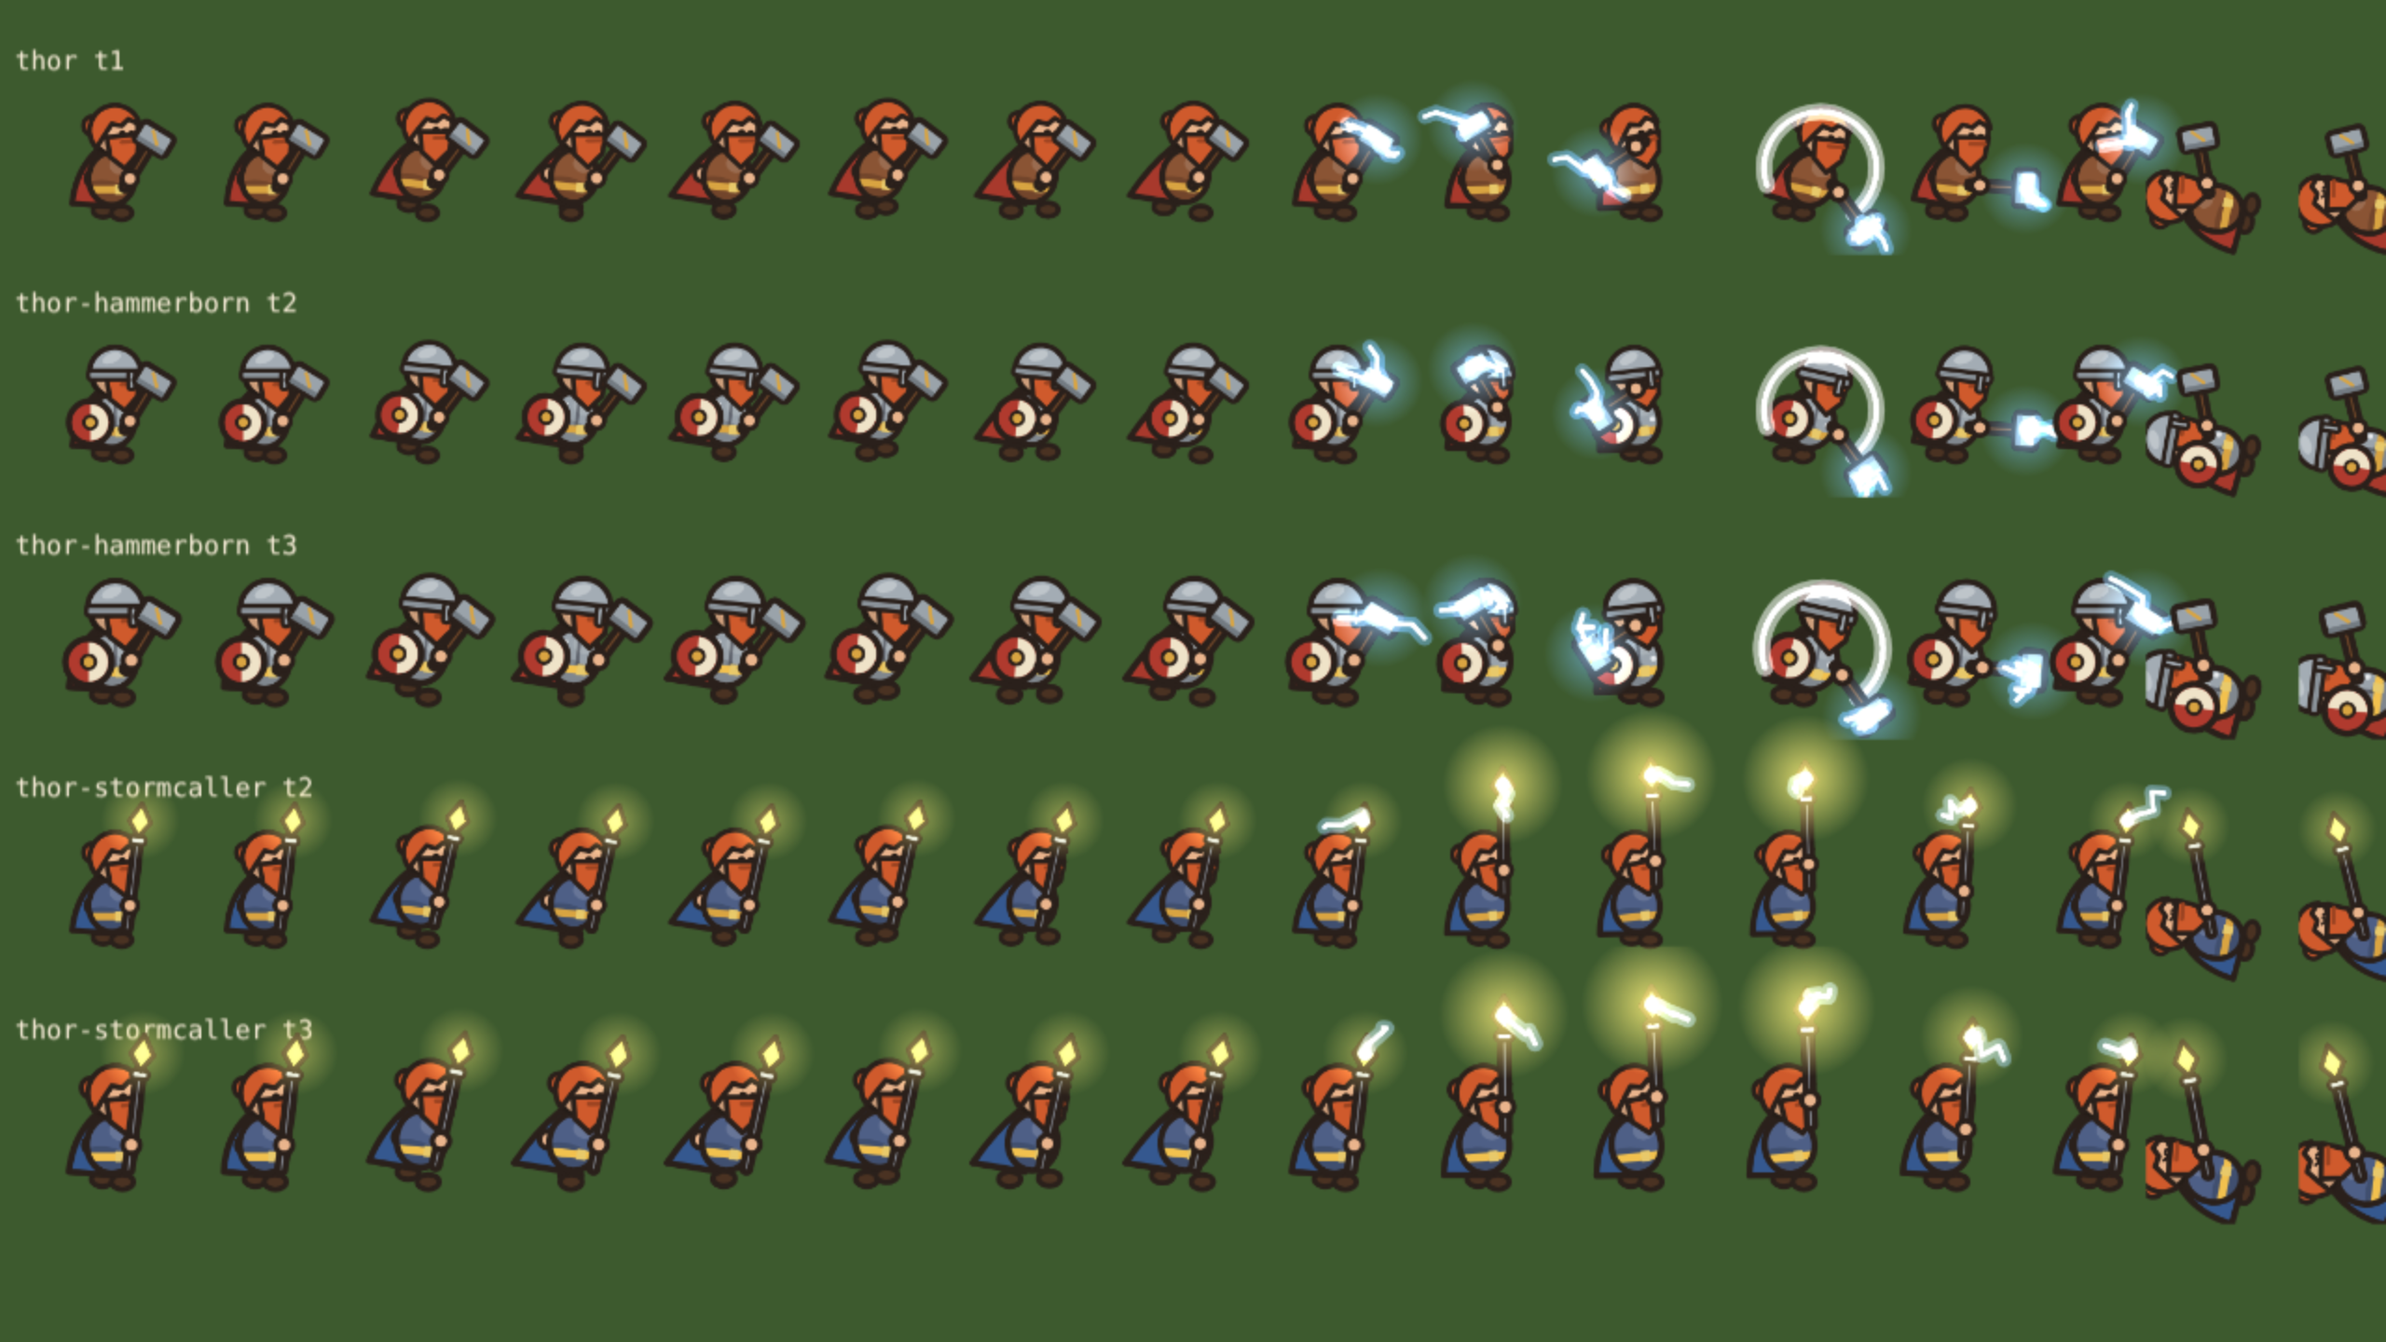
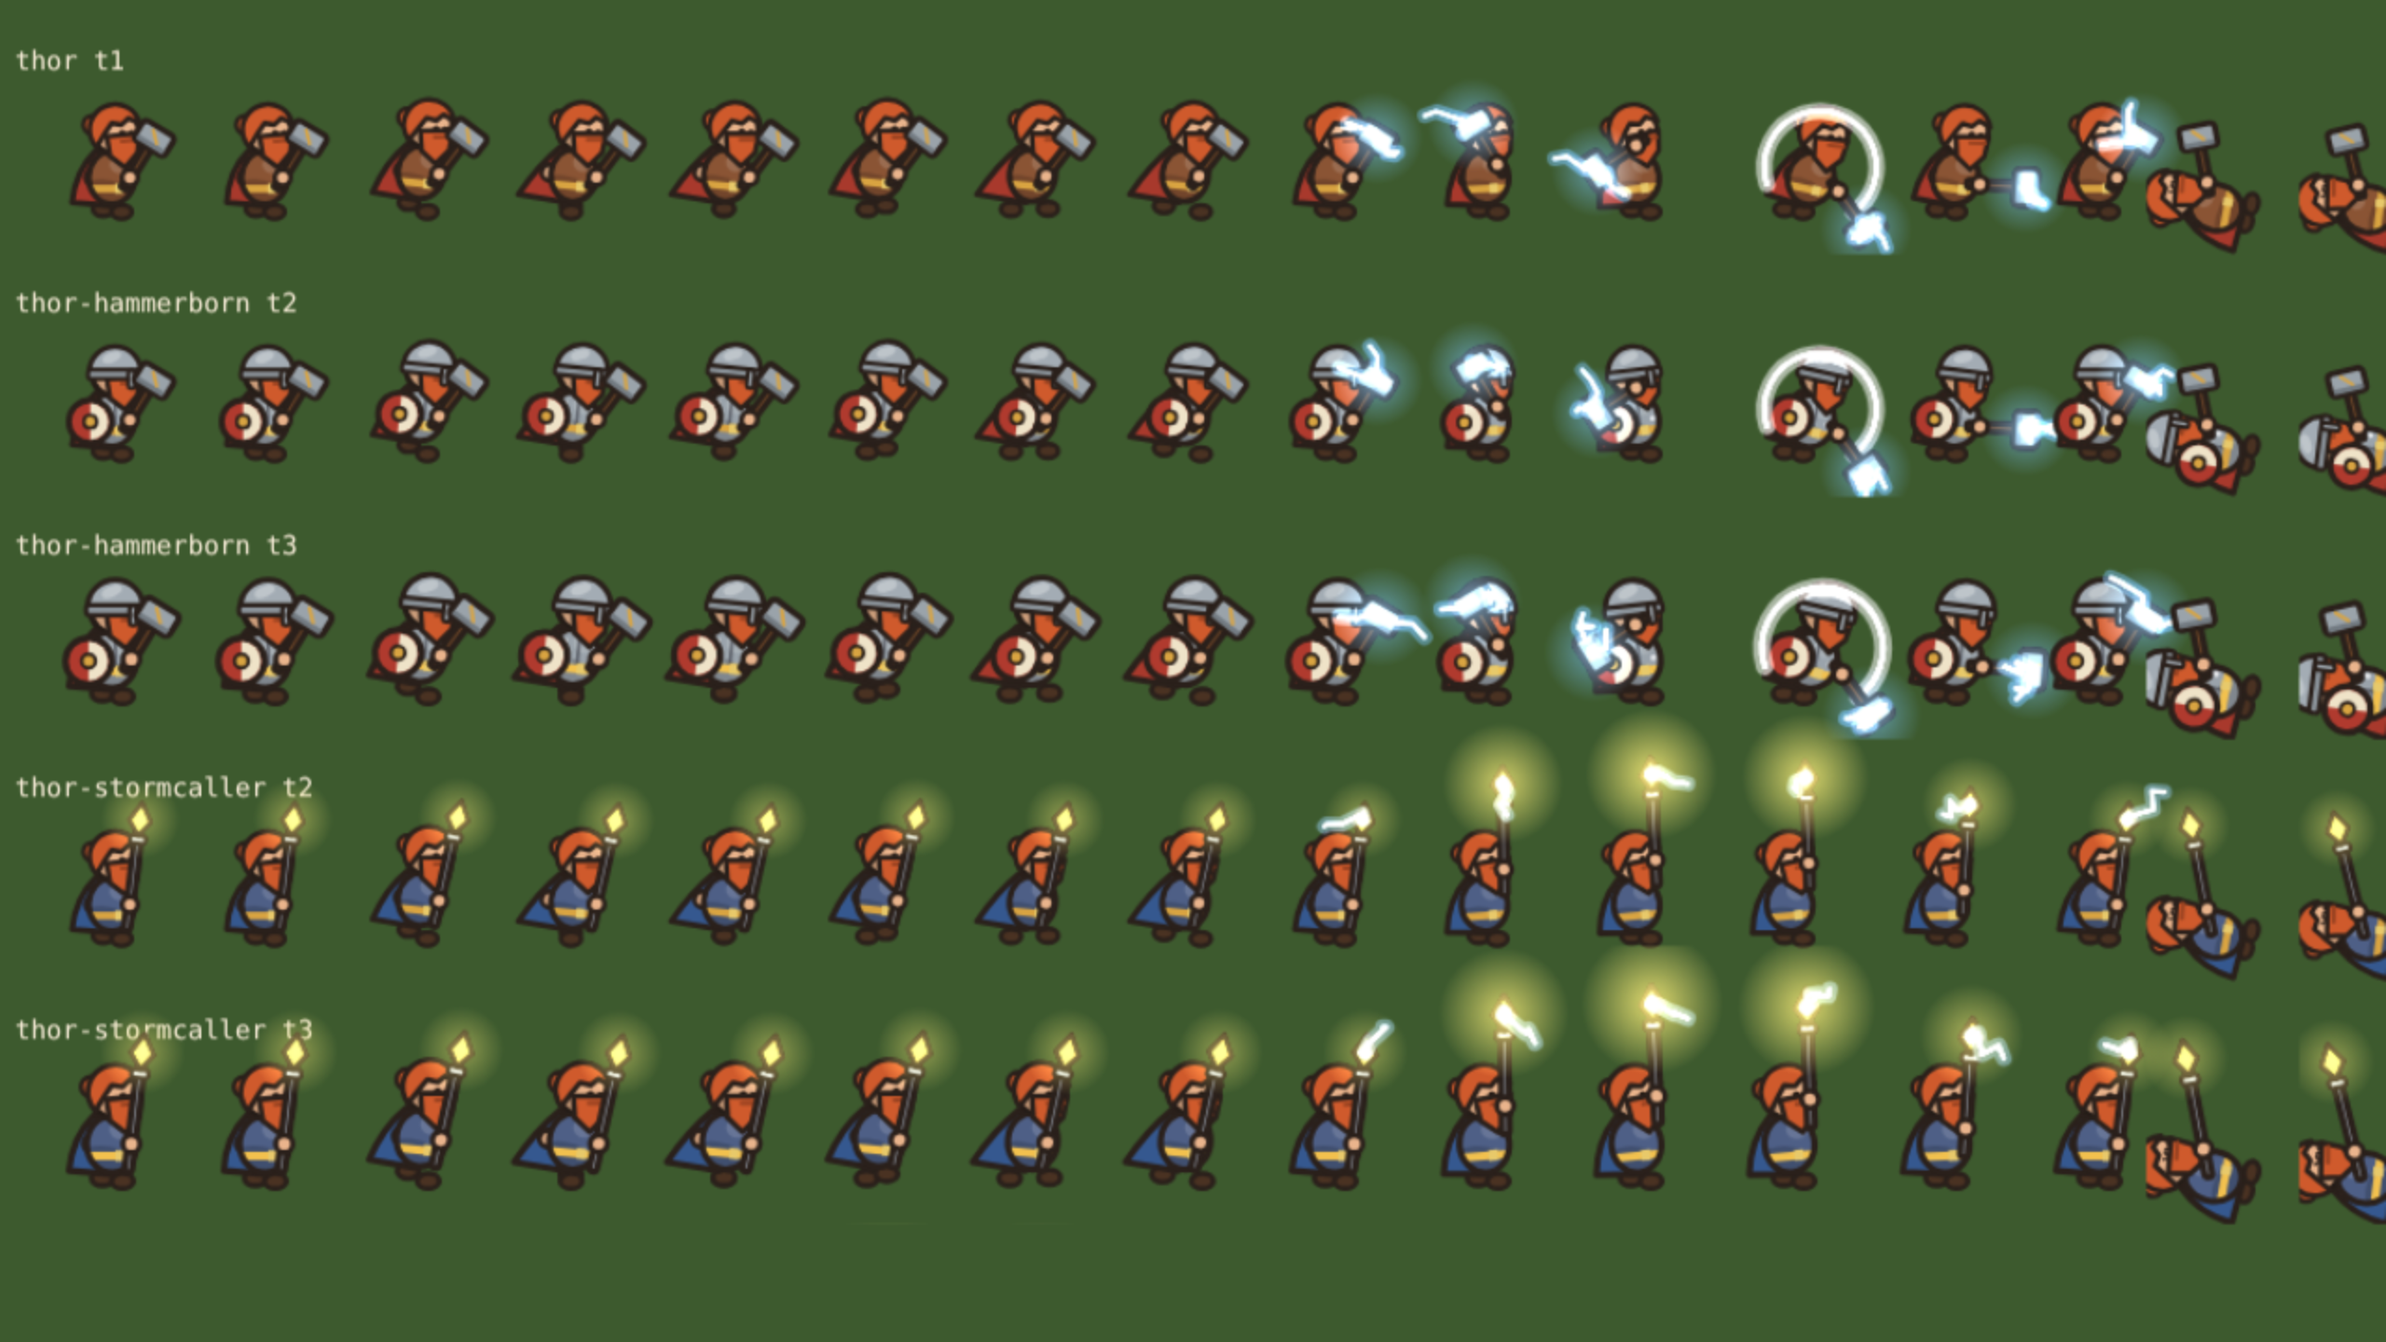
fix(scene): parts looks bake into one atlas each at a capped scale, idle looks are released, owner header (review of #193)
Claude-Session: https://claude.ai/code/session_01EDKMoTWRabZMeHFkhrUDvd

diff --git a/src/ui/parts/bake.ts b/src/ui/parts/bake.ts
@@ -1,31 +1,37 @@
-// Bakes the frames of a part-based look into canvas textures, once per look, on first sight.
+// Bakes the frames of a part-based look into ONE canvas atlas per look, once, on first sight.
 // Drawing a hero from parts every frame would cost far too much on a phone; a baked frame is one
-// image draw. Frames are baked at the screen's pixel density so they stay crisp.
+// image draw. Memory is kept small on purpose (a phone has a hard canvas budget): a modest bake
+// scale, one canvas per look (not one per frame), and looks nobody uses any more are released.
 import Phaser from 'phaser';
 import type { HeroPartsRow } from '../../data/heroParts';
 import { withCtx } from './gfx';
 import { drawHero } from './heroDraw';
-import { FRAME_COUNT, FRAME_H, FRAME_W, ORIGIN, frameState, type PoseName } from './frames';
+import {
+  ATLAS_COLS as COLS,
+  FRAME_COUNT,
+  FRAME_H,
+  FRAME_W,
+  ORIGIN,
+  frameState,
+  pxPerUnit,
+  type PoseName,
+} from './frames';
 
 export interface BakedSet {
   id: string;
-  keys: Record<PoseName, string[]>;
+  // The atlas texture key and, per pose, the frame names inside it.
+  atlas: string;
+  frames: Record<PoseName, string[]>;
   // Where the feet are in a frame, as fractions of the frame (the image origin).
   originX: number;
   originY: number;
-  // World units per baked pixel is 1 / pxPerUnit of the frame's drawing units.
+  // Baked pixels per drawing unit.
   pxPerUnit: number;
+  lastUsed: number;
 }
 
 const POSES: PoseName[] = ['idle', 'walk', 'attack', 'ko'];
 const sets = new Map<string, BakedSet>();
-
-// Bake pixels per drawing unit: a hero draws about 4.5 world units per drawing unit, so this
-// keeps a baked pixel at or below a screen pixel for a phone at 2.5x density.
-export function pxPerUnit(dpr: number = globalThis.devicePixelRatio || 1): number {
-  const perWorld = Math.min(2.5, Math.max(1.5, dpr));
-  return Math.round(perWorld * 1.6 * 10) / 10;
-}
 
 function seedOf(id: string, pose: string, i: number): number {
   let h = 2166136261;
@@ -33,49 +39,76 @@ function seedOf(id: string, pose: string, i: number): number {
   return h | 0;
 }
 
-export function hasSet(scene: Phaser.Scene, id: string): boolean {
-  const s = sets.get(id);
-  return !!s && scene.textures.exists(s.keys.idle[0]);
-}
-
-export function getSet(id: string): BakedSet | undefined {
-  return sets.get(id);
-}
-
 // Returns the baked set for a look, baking it now if it is not there yet.
 export function ensureHeroSet(scene: Phaser.Scene, id: string, row: HeroPartsRow): BakedSet {
   const have = sets.get(id);
-  if (have && scene.textures.exists(have.keys.idle[0])) return have;
+  if (have && scene.textures.exists(have.atlas)) {
+    have.lastUsed = scene.time.now;
+    return have;
+  }
   const k = pxPerUnit();
-  const w = Math.ceil(FRAME_W * k);
-  const h = Math.ceil(FRAME_H * k);
-  const keys = { idle: [], walk: [], attack: [], ko: [] } as Record<PoseName, string[]>;
+  const fw = Math.ceil(FRAME_W * k);
+  const fh = Math.ceil(FRAME_H * k);
+  const total = POSES.reduce((n, p) => n + FRAME_COUNT[p], 0);
+  const rows = Math.ceil(total / COLS);
+  const atlas = `parts_${id}`;
+  if (scene.textures.exists(atlas)) scene.textures.remove(atlas);
+  const tex = scene.textures.createCanvas(atlas, fw * COLS, fh * rows);
+  const frames = { idle: [], walk: [], attack: [], ko: [] } as Record<PoseName, string[]>;
+  const set: BakedSet = {
+    id,
+    atlas,
+    frames,
+    originX: ORIGIN.x / FRAME_W,
+    originY: ORIGIN.y / FRAME_H,
+    pxPerUnit: k,
+    lastUsed: scene.time.now,
+  };
+  if (!tex) return set; // no canvas to draw on: the caller's frame names stay empty
+  const c = tex.getContext();
+  let n = 0;
   for (const pose of POSES) {
-    for (let i = 0; i < FRAME_COUNT[pose]; i++) {
-      const key = `parts_${id}_${pose}_${i}`;
-      keys[pose].push(key);
-      if (scene.textures.exists(key)) continue;
-      const tex = scene.textures.createCanvas(key, w, h);
-      if (!tex) continue;
-      const c = tex.getContext();
-      c.clearRect(0, 0, w, h);
+    for (let i = 0; i < FRAME_COUNT[pose]; i++, n++) {
+      const x = (n % COLS) * fw;
+      const y = Math.floor(n / COLS) * fh;
+      const name = `${pose}${i}`;
+      frames[pose].push(name);
+      tex.add(name, 0, x, y, fw, fh);
       c.save();
+      c.beginPath();
+      c.rect(x, y, fw, fh);
+      c.clip();
+      c.translate(x, y);
       c.scale(k, k);
       c.translate(ORIGIN.x, ORIGIN.y);
       const st = frameState(pose, i);
       withCtx(c, st.time, seedOf(id, pose, i), () => drawHero(st.pose, row));
       c.restore();
-      tex.refresh();
-      tex.setFilter(Phaser.Textures.FilterMode.LINEAR);
     }
   }
-  const set: BakedSet = {
-    id,
-    keys,
-    originX: ORIGIN.x / FRAME_W,
-    originY: ORIGIN.y / FRAME_H,
-    pxPerUnit: k,
-  };
+  tex.refresh();
+  tex.setFilter(Phaser.Textures.FilterMode.LINEAR);
   sets.set(id, set);
   return set;
+}
+
+// Looks nobody has used for `idleMs` (and that `inUse` does not name) are released. Called every
+// few seconds, so a run that moves on to higher tiers does not keep every old look.
+export function sweepSets(scene: Phaser.Scene, inUse: ReadonlySet<string>, idleMs = 60_000): void {
+  for (const [id, set] of sets) {
+    if (inUse.has(id)) {
+      set.lastUsed = scene.time.now;
+      continue;
+    }
+    if (scene.time.now - set.lastUsed < idleMs) continue;
+    if (scene.textures.exists(set.atlas)) scene.textures.remove(set.atlas);
+    sets.delete(id);
+  }
+}
+
+// Releases every baked look (the run ended or restarted).
+export function releaseSets(scene: Phaser.Scene): void {
+  for (const set of sets.values())
+    if (scene.textures.exists(set.atlas)) scene.textures.remove(set.atlas);
+  sets.clear();
 }

diff --git a/src/ui/unitViews.ts b/src/ui/unitViews.ts
@@ -3,7 +3,7 @@ import { GRAYBOX } from '../data/graybox';
 import { lookOf, type UnitLook } from '../data/looks';
 import { bossState } from './bossLook';
 import { heroPartsId, heroPartsRow } from '../data/heroParts';
-import { ensureHeroSet, type BakedSet } from './parts/bake';
+import { ensureHeroSet, sweepSets, type BakedSet } from './parts/bake';
 import { attackFrame, idleFrame, koFrame, walkFrame, type PoseName } from './parts/frames';
 import type { RiderId, SimEvent, UnitState, Vec2 } from '../sim/api';
 import { ASSETS_KEY, type ManifestAsset } from './assets';
@@ -263,20 +263,24 @@ export class UnitView {
     const id = heroPartsId(u.god, u.path, u.tier);
     if (id === this.partsId) return true;
     const set = ensureHeroSet(this.scene, id, row);
-    const first = set.keys.idle[0];
+    const first = set.frames.idle[0];
     this.partsSet = set;
     this.partsId = id;
     this.artId = '';
     if (!this.sprite) {
-      this.sprite = this.scene.add.image(0, 0, first);
-      this.flash = this.scene.add.image(0, 0, first).setVisible(false);
+      this.sprite = this.scene.add.image(0, 0, set.atlas, first);
+      this.flash = this.scene.add.image(0, 0, set.atlas, first).setVisible(false);
       this.body.addAt(this.sprite, 0);
       this.body.add(this.flash);
     }
     // World units per baked pixel: the hero's height over its drawing height, over the bake scale.
     const scale = (UNIT_HEIGHT * this.look.scale) / PARTS_HERO_H / set.pxPerUnit;
     for (const img of [this.sprite, this.flash]) {
-      img?.setTexture(first).setOrigin(set.originX, set.originY).setScale(scale).clearTint();
+      img
+        ?.setTexture(set.atlas, first)
+        .setOrigin(set.originX, set.originY)
+        .setScale(scale)
+        .clearTint();
     }
     this.ax = set.originX;
     this.ay = set.originY;
@@ -292,9 +296,26 @@ export class UnitView {
     if (this.partsSet) {
       this.partsSet = null;
       this.partsId = '';
-      this.artId = ''; // applyArt sets the picture (or the placeholder) back
+      // Drop the parts sprites: applyArt makes a fresh one (with its tier colour) for a picture,
+      // or the placeholder shape comes back.
+      this.sprite?.destroy();
+      this.flash?.destroy();
+      this.sprite = this.flash = null;
+      this.artId = '';
+      this.row = undefined;
+      this.ax = 0.5;
+      this.ay = 1;
+      this.w = PLACEHOLDER.w * this.look.scale;
+      this.h = PLACEHOLDER.h * this.look.scale;
+      this.capsule.setVisible(true);
+      this.nose.setVisible(true);
     }
     return false;
+  }
+
+  // The parts look this hero is drawn with ('' for a picture or the placeholder).
+  get partsLookId(): string {
+    return this.partsId;
   }
 
   // Swaps in the picture for this unit when the manifest has it; else the placeholder stays.
@@ -619,10 +640,10 @@ export class UnitView {
     }
     if (this.partsSet) {
       // The baked frame carries the pose (stride, swing, fall): the body stays upright.
-      const key = this.partsSet.keys[frame.pose][frame.i];
-      if (key && this.sprite?.texture.key !== key) {
-        this.sprite?.setTexture(key);
-        this.flash?.setTexture(key);
+      const name = this.partsSet.frames[frame.pose][frame.i];
+      if (name && this.sprite?.frame.name !== name) {
+        this.sprite?.setTexture(this.partsSet.atlas, name);
+        this.flash?.setTexture(this.partsSet.atlas, name);
       }
       pose = NO_POSE;
     }
@@ -971,6 +992,13 @@ export class UnitViews {
       }
     }
     this.flushQueued();
+    if (this.scene.time.now > this.sweepAt) {
+      this.sweepAt = this.scene.time.now + 5000;
+      const inUse = new Set<string>();
+      for (const v of [...this.views.values(), ...this.dying.values()])
+        if (v.partsLookId) inUse.add(v.partsLookId);
+      sweepSets(this.scene, inUse);
+    }
     this.fx.update(dtS);
   }
 
@@ -979,6 +1007,7 @@ export class UnitViews {
   // Heroes only, rationed by SpeechLimit (one bark in town per few seconds, one per hero per 30 s).
   // A high priority bark that meets the global gap waits up to HIGH_WAIT_MS for it, then drops
   // (barks.md section 2 rule 3). Mid and low barks drop at once.
+  private sweepAt = 0;
   private queued: { e: Extract<SimEvent, { kind: SpeechKind }>; until: number } | null = null;
 
   private onSpeech(e: Extract<SimEvent, { kind: SpeechKind }>): void {

diff --git a/src/ui/parts/frames.test.ts b/src/ui/parts/frames.test.ts
@@ -1,5 +1,14 @@
 import { describe, expect, it } from 'vitest';
-import { FRAME_COUNT, attackFrame, frameState, idleFrame, koFrame, walkFrame } from './frames';
+import {
+  FRAME_COUNT,
+  attackFrame,
+  frameState,
+  idleFrame,
+  koFrame,
+  lookBytes,
+  pxPerUnit,
+  walkFrame,
+} from './frames';
 
 describe('frame choice', () => {
   it('walks through every walk frame once per stride and wraps', () => {
@@ -30,5 +39,15 @@ describe('frame choice', () => {
     expect(frameState('attack', FRAME_COUNT.attack - 1).pose.atkT).toBe(1);
     expect(frameState('ko', FRAME_COUNT.ko - 1).pose.ko).toBe(true);
     expect(frameState('idle', 1).pose.atkT).toBe(-1);
+  });
+});
+
+describe('bake memory', () => {
+  it('a look stays near 2 MB on the GPU at the densest screen', () => {
+    expect(pxPerUnit(1)).toBe(1.2);
+    expect(pxPerUnit(3)).toBe(1.8);
+    expect(lookBytes(pxPerUnit(3))).toBeLessThan(2.5 * 1024 * 1024);
+    // 24 looks (a full run's heroes) with their canvases stay well under 64 MB at dpr 2.
+    expect(24 * 2 * lookBytes(pxPerUnit(2))).toBeLessThan(64 * 1024 * 1024);
   });
 });

diff --git a/src/ui/parts/frames.ts b/src/ui/parts/frames.ts
@@ -74,3 +74,20 @@ export function frameState(pose: PoseName, i: number): { time: number; pose: Par
   const k = (i + 1) / FRAME_COUNT.ko;
   return { time: 0, pose: { ...base, ko: true, koT: 0.35 * k } };
 }
+
+// Frames per row of a look's atlas.
+export const ATLAS_COLS = 5;
+
+// Bake pixels per drawing unit. A hero is 44 drawing units, so 1.8 gives a 79 px figure: about
+// one screen pixel per baked pixel on a phone. Capped so a look stays near 2 MB (plus the same
+// again in its canvas), however dense the screen.
+export function pxPerUnit(dpr: number = globalThis.devicePixelRatio || 1): number {
+  return Math.round(Math.min(1.8, Math.max(1.2, dpr * 0.8)) * 10) / 10;
+}
+
+// Approximate GPU bytes of one baked look at a pixel scale (for budgeting and tests).
+export function lookBytes(k: number): number {
+  const total = FRAME_COUNT.idle + FRAME_COUNT.walk + FRAME_COUNT.attack + FRAME_COUNT.ko;
+  const rows = Math.ceil(total / ATLAS_COLS);
+  return Math.ceil(FRAME_W * k) * ATLAS_COLS * Math.ceil(FRAME_H * k) * rows * 4;
+}

diff --git a/src/scenes/MapScene.ts b/src/scenes/MapScene.ts
@@ -21,6 +21,7 @@ import { heroLabel, partyColor } from '../ui/partyLook';
 import { artCandidates } from '../ui/unitLook';
 import { UnitViews } from '../ui/unitViews';
 import { iconScale } from '../ui/icons';
+import { releaseSets } from '../ui/parts/bake';
 import { lairDecal, lairPlate, townPatch } from '../ui/groundDecal';
 import { buildingArtCandidates, buildingScale, lairArtCandidates } from '../ui/unitLook';
 import { ASSETS_KEY, type ManifestAsset } from '../ui/assets';
@@ -133,6 +134,8 @@ export class MapScene extends Phaser.Scene {
     this.director.reset();
     this.registry.set('camMode', 'off');
     this.registry.set('modal', false);
+    // A finished or restarted run gives its baked looks back.
+    this.events.once(Phaser.Scenes.Events.SHUTDOWN, () => releaseSets(this));
     this.unitViews = new UnitViews(this, () => {
       if (!getSettings().reducedMotion) this.cameras.main.shake(130, 0.004);
     });

diff --git a/src/scenes/PartsGalleryScene.ts b/src/scenes/PartsGalleryScene.ts
@@ -39,17 +39,17 @@ export class PartsGalleryScene extends Phaser.Scene {
           color: '#f4ead5',
         })
         .setOrigin(0, 0);
-      const keys = [
-        set.keys.idle[0],
-        set.keys.idle[2],
-        ...set.keys.walk,
-        ...set.keys.attack,
-        ...set.keys.ko.slice(1),
+      const names = [
+        set.frames.idle[0],
+        set.frames.idle[2],
+        ...set.frames.walk,
+        ...set.frames.attack,
+        ...set.frames.ko.slice(1),
       ];
       const scale = (rowH * 0.9) / 66 / set.pxPerUnit;
-      keys.forEach((k, i) => {
+      names.forEach((name, i) => {
         this.add
-          .image(60 + i * cell, y, k)
+          .image(60 + i * cell, y, set.atlas, name)
           .setOrigin(set.originX, set.originY)
           .setScale(scale);
       });

diff --git a/src/data/heroParts.ts b/src/data/heroParts.ts
@@ -4,7 +4,7 @@
 // hair, the palette and the silhouette and ADDS gear (a helm, a shield, plate, a crackling weapon,
 // another raven). Tier 3 is the tier 2 look with `t3` added on top.
 //
-// Owner: Balance (data). Scene reads it. Drawing code: src/ui/parts/heroDraw.ts.
+// Owner: Scene (look rows only, approved by Lead). Drawing code: src/ui/parts/heroDraw.ts.
 
 export type WeaponKind =
   | 'hammer'
